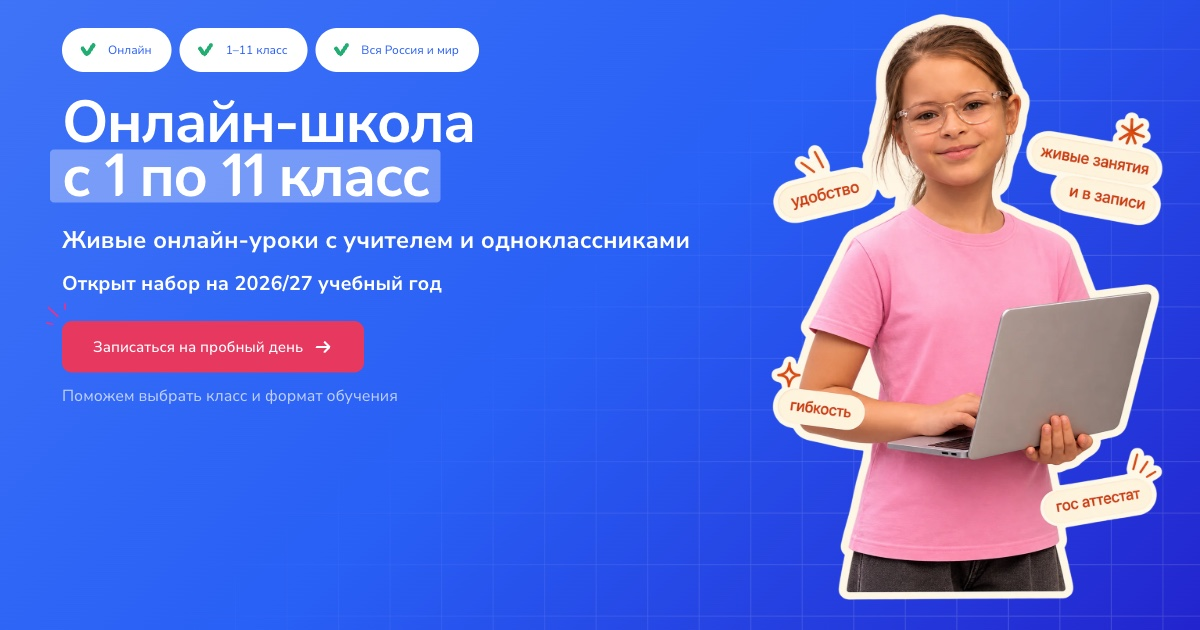
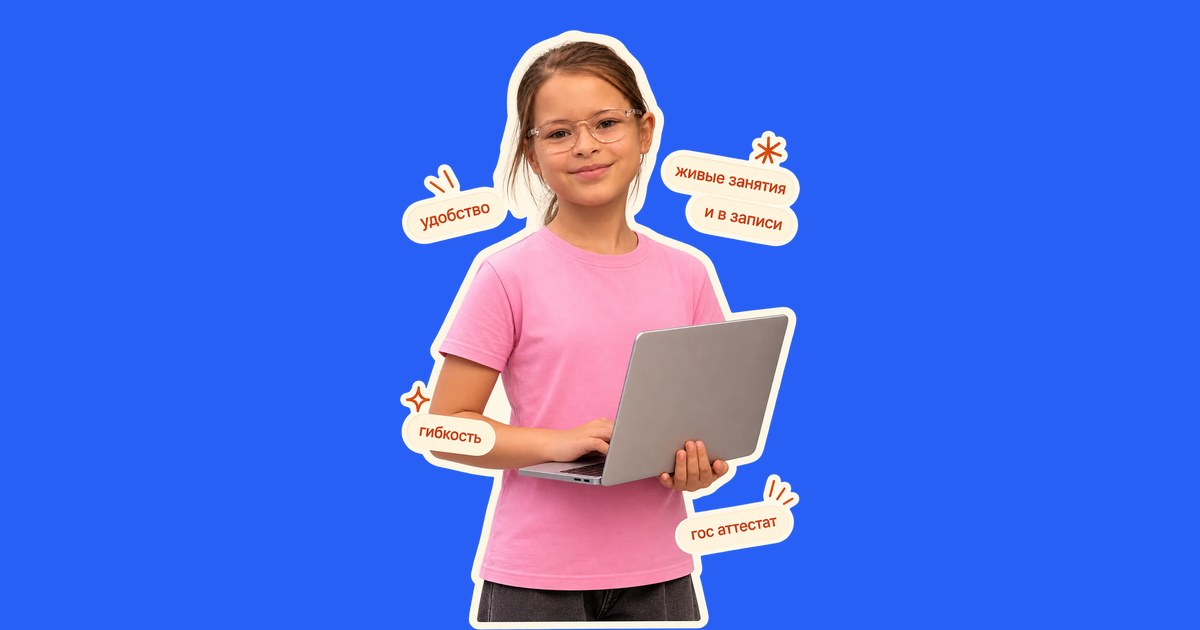
OG-обложки: отдельные для 5-9 и 10-11 классов, обновлена общая

diff --git a/5-9-klass/index.html b/5-9-klass/index.html
@@ -13,7 +13,7 @@
   <meta property="og:title" content="Онлайн-школа с 5 по 9 класс — Моя школа LS">
   <meta property="og:description" content="Аттестат государственного образца, до 15 учеников в классе, уроки в прямом эфире, ДЗ без участия родителей. Обучение из любой точки. Бесплатные 2 пробных дня.">
   <meta property="og:url" content="https://agb.lancmanschool.com/5-9-klass/">
-  <meta property="og:image" content="https://agb.lancmanschool.com/assets/img/og-cover.jpg">
+  <meta property="og:image" content="https://agb.lancmanschool.com/assets/img/og-cover-5-9.jpg">
   <meta property="og:image:width" content="1200">
   <meta property="og:image:height" content="630">
   <meta property="og:image:alt" content="Онлайн-школа «Моя школа LS» — обучение с 1 по 11 класс из любой точки">
@@ -22,7 +22,7 @@
   <meta name="twitter:card" content="summary_large_image">
   <meta name="twitter:title" content="Онлайн-школа с 5 по 9 класс — Моя школа LS">
   <meta name="twitter:description" content="Аттестат государственного образца, до 15 учеников в классе, уроки в прямом эфире, ДЗ без участия родителей. Обучение из любой точки. Бесплатные 2 пробных дня.">
-  <meta name="twitter:image" content="https://agb.lancmanschool.com/assets/img/og-cover.jpg">
+  <meta name="twitter:image" content="https://agb.lancmanschool.com/assets/img/og-cover-5-9.jpg">
 
   <meta name="theme-color" content="#285FF5">
 
@@ -999,7 +999,7 @@
       "audienceType": "Ученики 5–9 классов"
     },
     "logo": "https://agb.lancmanschool.com/assets/img/logo.svg",
-    "image": "https://agb.lancmanschool.com/assets/img/og-cover.jpg",
+    "image": "https://agb.lancmanschool.com/assets/img/og-cover-5-9.jpg",
     "description": "Онлайн-школа «Моя школа LS»: аттестат государственного образца, до 15 учеников в классе, уроки в прямом эфире с записью, домашние задания без участия родителей. Обучение с 1 по 11 класс из любой точки.",
     "telephone": "+7 (499) 346-73-50",
     "areaServed": {

diff --git a/10-11-klass/index.html b/10-11-klass/index.html
@@ -13,7 +13,7 @@
   <meta property="og:title" content="Онлайн-школа с 10 по 11 класс — Моя школа LS">
   <meta property="og:description" content="10–11 класс онлайн: аттестат государственного образца, подготовка к ЕГЭ, до 15 учеников в классе, уроки в прямом эфире. Бесплатные 2 пробных дня.">
   <meta property="og:url" content="https://agb.lancmanschool.com/10-11-klass/">
-  <meta property="og:image" content="https://agb.lancmanschool.com/assets/img/og-cover.jpg">
+  <meta property="og:image" content="https://agb.lancmanschool.com/assets/img/og-cover-10-11.jpg">
   <meta property="og:image:width" content="1200">
   <meta property="og:image:height" content="630">
   <meta property="og:image:alt" content="Онлайн-школа «Моя школа LS» — обучение с 1 по 11 класс из любой точки">
@@ -22,7 +22,7 @@
   <meta name="twitter:card" content="summary_large_image">
   <meta name="twitter:title" content="Онлайн-школа с 10 по 11 класс — Моя школа LS">
   <meta name="twitter:description" content="10–11 класс онлайн: аттестат государственного образца, подготовка к ЕГЭ, до 15 учеников в классе, уроки в прямом эфире. Бесплатные 2 пробных дня.">
-  <meta name="twitter:image" content="https://agb.lancmanschool.com/assets/img/og-cover.jpg">
+  <meta name="twitter:image" content="https://agb.lancmanschool.com/assets/img/og-cover-10-11.jpg">
 
   <meta name="theme-color" content="#285FF5">
 
@@ -999,7 +999,7 @@
       "audienceType": "Ученики 10–11 классов"
     },
     "logo": "https://agb.lancmanschool.com/assets/img/logo.svg",
-    "image": "https://agb.lancmanschool.com/assets/img/og-cover.jpg",
+    "image": "https://agb.lancmanschool.com/assets/img/og-cover-10-11.jpg",
     "description": "Онлайн-школа «Моя школа LS» для 10–11 классов: аттестат государственного образца, подготовка к ЕГЭ, до 15 учеников в классе, уроки в прямом эфире с записью.",
     "telephone": "+7 (499) 346-73-50",
     "areaServed": {
